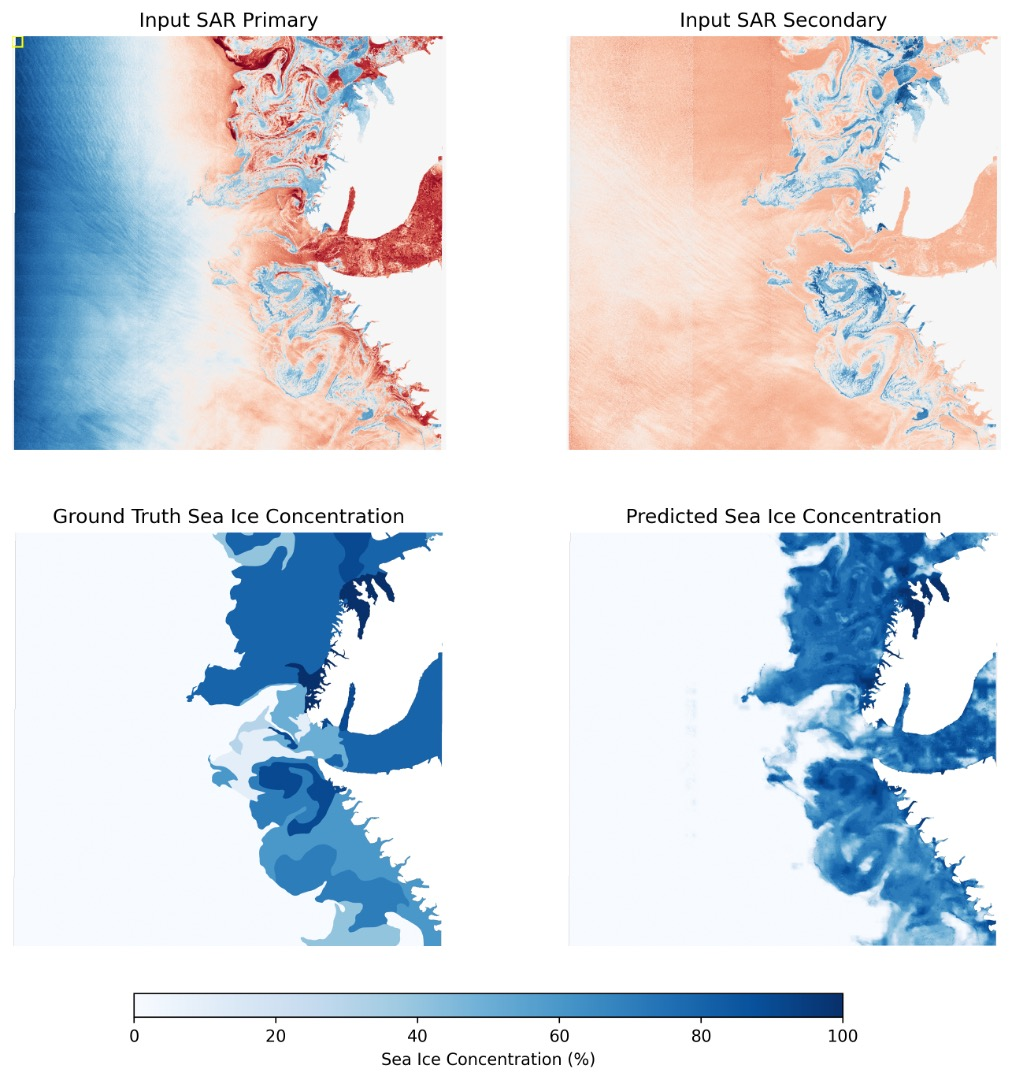
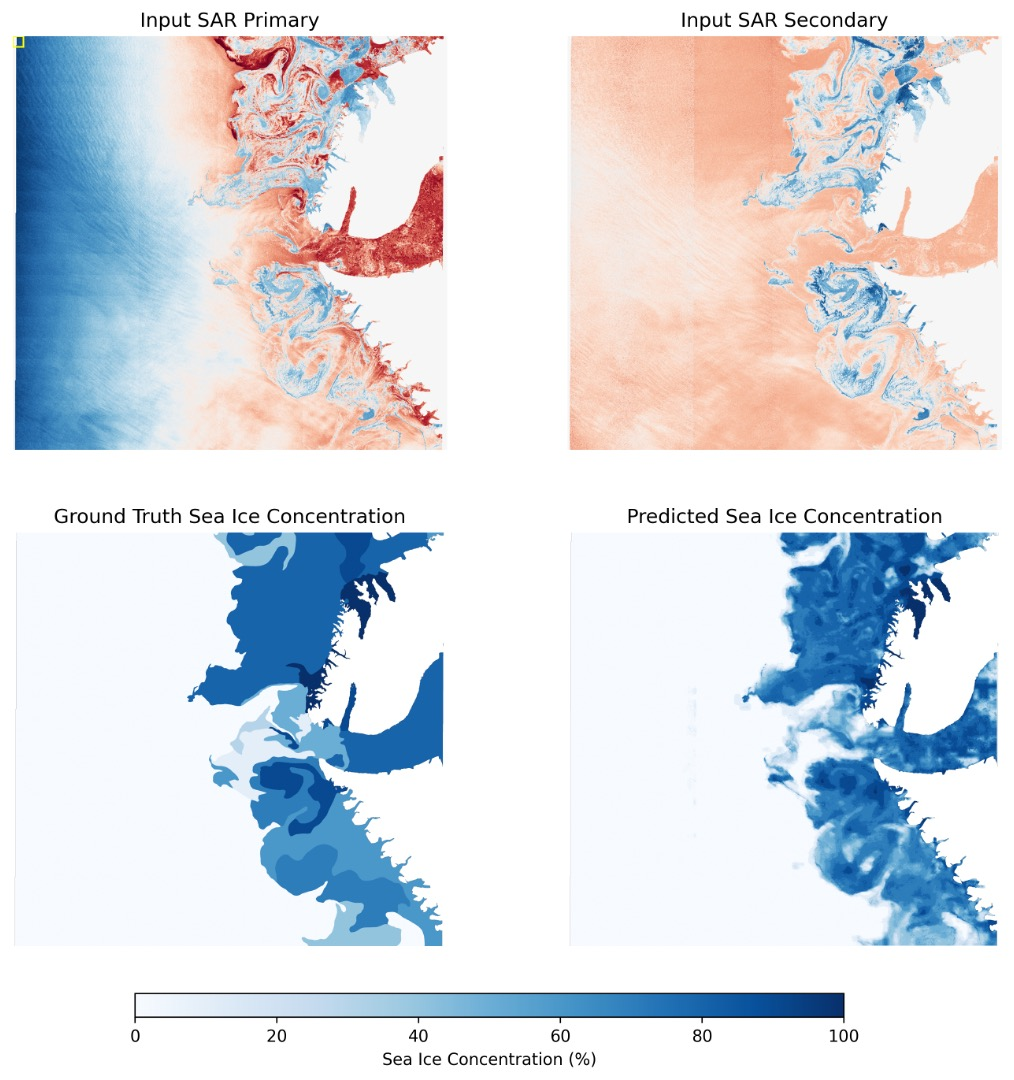
Updated rounding

diff --git a/content/projects/seaiceconcentration/index.md b/content/projects/seaiceconcentration/index.md
@@ -82,12 +82,6 @@ $$
 \hat{\mathbf{y}} = \sigma \left( \mathrm{Conv}_{1\times1}(\mathbf{z}_1) \right), \quad  \hat{\mathbf{y}} \in (0,1)^{H \times W}.
 $$
 
-During evaluation, predictions are rounded to the nearest 0.1:
-
-$$
-\hat{y} = \frac{\text{round}(10\hat{y})}{10}.
-$$
-
 ### Loss Function
 
 Loss was calculated as the mean square error over ocean/ice pixels. Non-ocean pixels have a pixel value of 25.5 in the target, and thus can be masked out from the loss calculation:
@@ -138,18 +132,37 @@ $$
 
 where $p$ indexes all patches that cover pixel $(i, j)$, $\hat{y}^{(p)}(i, j)$ is the prediction for that pixel in patch $p$, and $w^{(p)}(i, j)$ is the Hann window weight for that pixel within patch $p$.
 
+The predictions can then be rounded to the nearest 10% to match the discretisation of the labelled dataset:
+$$
+\hat{y} = \frac{\text{round}(10\hat{y})}{10}.
+$$
+
 Running the model on a test image produces the following result:
 
 
 <div align="center">
 <figure style="position: relative; display: inline-block; margin: 0; border-radius: 12px; overflow: hidden;">
-  <img src="test.jpg" draggable=false alt="Test image output" style="display: block; width: 100%; height: auto; border-radius: 12px;">
+  <img src="test_round.jpg" draggable=false alt="Test image output" style="display: block; width: 100%; height: auto; border-radius: 12px;">
 </figure>
 </div>
+
+<sup>Note: sorry, the colorbar should be discretised!!</sup>
 
 The model reproduces the large-scale spatial structure and extent of sea ice concentration with high qualitative fidelity, capturing the overall geometry of the ice field and smooth transitions across the marginal ice zone. Predictions are spatially coherent and free from patch-boundary artefacts, indicating that the sliding-window inference and Hann-window blending are working as intended. However, the predicted field is noticeably smoother than the discretised ground truth, with sharp concentration gradients and local extremes damped. This behaviour is consistent with bounded regression trained under an MSE loss on limited data.
 
 This apparent over-smoothing may in fact be more representative of real-world sea ice conditions than the discretised ground truth. Sea ice concentration is a fundamentally continuous physical variable, yet the reference product is quantised into coarse 10% bins, introducing artificial step changes and sharp boundaries that do not necessarily correspond to true physical transitions. Consequently, discrepancies at sharp bin boundaries may reflect limitations of the labelled product rather than genuine model error, and the predictions may be closer to the underlying physical state of the ice cover.
+
+### Evaluation
+
+Using the rounded predictions, we can plot a confusion matrix to assess the model's performance. Here, each row is normalised to sum to 100% (else the 0 label dominates).
+
+<div align="center">
+<figure style="position: relative; display: inline-block; margin: 0; border-radius: 12px; overflow: hidden;">
+  <img src="cm.jpg" draggable=false alt="Confusion Matrix" style="display: block; width: 60%; height: auto; border-radius: 12px;">
+</figure>
+</div>
+
+The confusion matrix shows that predictions are strongly concentrated along the diagonal, with most errors confined to adjacent concentration bins. This indicates that the model captures the ordinal structure of sea-ice concentration well, despite reduced exact-bin accuracy caused by rounding a continuous regression output. Errors are smooth and local rather than categorical, suggesting the regression formulation is appropriate for this task. As aforementioned, rounding reduces the continuous nature of sea ice and the model's original outputs may be more representative of the true sea ice concentration distribution.
 
 ## Packaging
 
